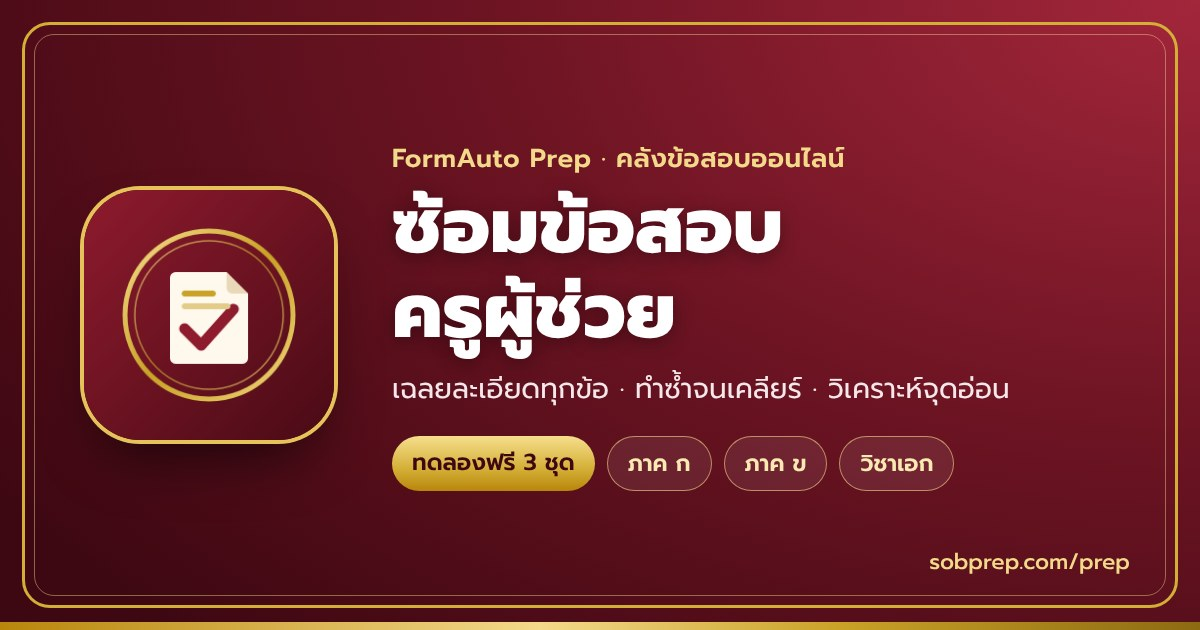
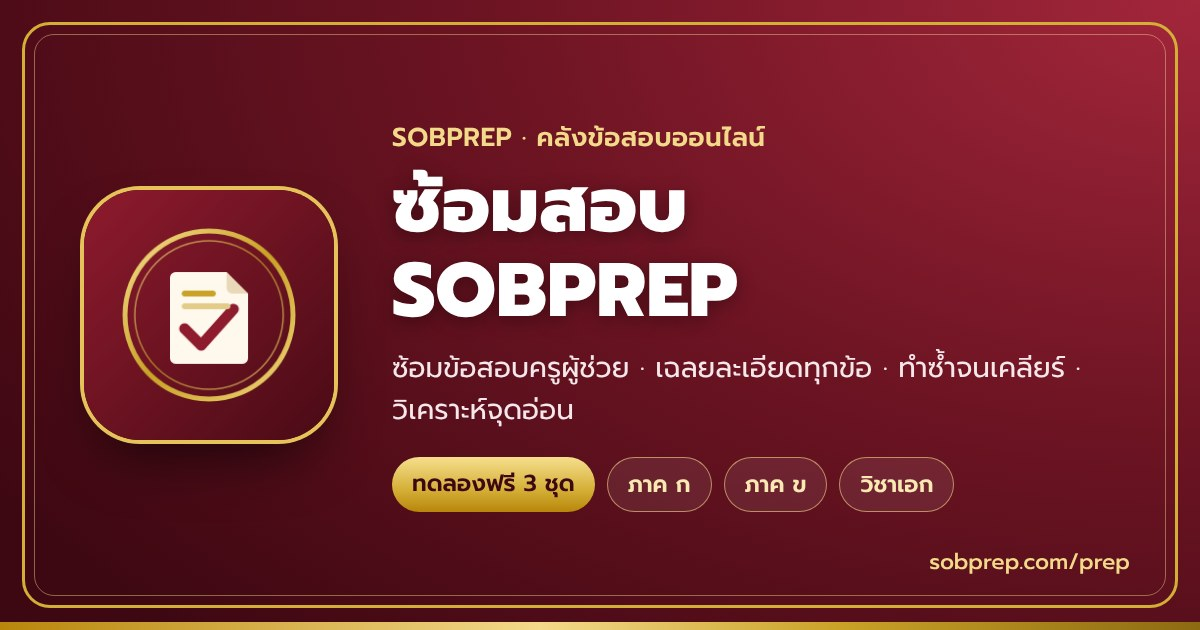
Rename the /prep brand to ซ้อมสอบ SOBPREP
Header brand, login hero, page titles, PWA name/short name, apple title,
og/site_name metadata and the share image now say SOBPREP instead of
ซ้อมครูผู้ช่วย / FormAuto Prep. The teacher FormAuto app is untouched.

Claude-Session: https://claude.ai/code/session_01SQo5dQgHYsfDk3paRTDxFz

Changed region(s): [[0.3083, 0.181, 0.8942, 0.8143]]

diff --git a/prep.html b/prep.html
@@ -7,7 +7,7 @@
     <link rel="apple-touch-icon" href="/prep-icons/apple-touch-icon.png" />
     <link rel="manifest" href="/prep-manifest.webmanifest" />
     <meta name="viewport" content="width=device-width, initial-scale=1.0, viewport-fit=cover" />
-    <title>ซ้อมข้อสอบครูผู้ช่วย ภาค ก ภาค ข วิชาเอก | FormAuto Prep</title>
+    <title>ซ้อมข้อสอบครูผู้ช่วย ภาค ก ภาค ข วิชาเอก | ซ้อมสอบ SOBPREP</title>
     <meta name="description" content="ซ้อมข้อสอบครูผู้ช่วยออนไลน์ เฉลยละเอียดทุกข้อ ทำซ้ำจนเคลียร์ พร้อมวิเคราะห์จุดแข็งจุดอ่อนรายหมวด ครบทั้งภาค ก ภาค ข และวิชาเอก ทดลองฟรี 3 ชุด" />
     <meta name="theme-color" content="#6E1423" />
     <link rel="canonical" href="https://sobprep.com/prep" />
@@ -22,8 +22,8 @@
     <meta property="og:image:type" content="image/jpeg" />
     <meta property="og:image:width" content="1200" />
     <meta property="og:image:height" content="630" />
-    <meta property="og:image:alt" content="ซ้อมข้อสอบครูผู้ช่วย ภาค ก ภาค ข วิชาเอก - FormAuto Prep" />
-    <meta property="og:site_name" content="FormAuto Prep" />
+    <meta property="og:image:alt" content="ซ้อมข้อสอบครูผู้ช่วย ภาค ก ภาค ข วิชาเอก - ซ้อมสอบ SOBPREP" />
+    <meta property="og:site_name" content="ซ้อมสอบ SOBPREP" />
     <meta property="og:locale" content="th_TH" />
 
     <!-- Twitter / X -->

diff --git a/src/prep/Privacy.tsx b/src/prep/Privacy.tsx
@@ -3,14 +3,14 @@ import { Logo } from "./icons";
 
 // Public page at /prep/privacy. Only states what the system really does today; update it when that changes.
 export default function Privacy() {
-  useEffect(() => { document.title = "ความเป็นส่วนตัวและข้อกำหนด | ซ้อมข้อสอบครูผู้ช่วย"; }, []);
+  useEffect(() => { document.title = "ความเป็นส่วนตัวและข้อกำหนด | ซ้อมสอบ SOBPREP"; }, []);
   return (
     <div className="pp-app pp-guide pp-legal">
       <header className="pp-top">
         <div className="pp-top-in">
           <a className="pp-brand" href="/prep">
             <Logo size={36} />
-            <span className="pp-brand-t">ซ้อมครูผู้ช่วย<small>ความเป็นส่วนตัวและข้อกำหนด</small></span>
+            <span className="pp-brand-t">ซ้อมสอบ<small>ความเป็นส่วนตัวและข้อกำหนด</small></span>
           </a>
           <span className="pp-spacer" />
           <a className="pp-btn pp-btn-gold" href="/prep">เปิดแอป</a>

diff --git a/src/prep/Guide.tsx b/src/prep/Guide.tsx
@@ -30,7 +30,7 @@ function Sec({ id, title, children }: { id: string; title: string; children: Rea
 export default function Guide() {
   const [prices, setPrices] = useState<Price[]>([]);
   useEffect(() => {
-    document.title = "คู่มือการใช้งาน | ซ้อมข้อสอบครูผู้ช่วย";
+    document.title = "คู่มือการใช้งาน | ซ้อมสอบ SOBPREP";
     rpc<Price[]>("prep_prices").then(setPrices).catch(() => { /* not signed in: use config */ });
   }, []);
   const n = (k: PackageKey, t: Term) => {
@@ -47,7 +47,7 @@ export default function Guide() {
         <div className="pp-top-in">
           <a className="pp-brand" href="/prep">
             <Logo size={36} />
-            <span className="pp-brand-t">ซ้อมครูผู้ช่วย<small>คู่มือการใช้งาน</small></span>
+            <span className="pp-brand-t">ซ้อมสอบ<small>คู่มือการใช้งาน</small></span>
           </a>
           <span className="pp-spacer" />
           <a className="pp-btn pp-btn-gold" href="/prep">เปิดแอป</a>

diff --git a/src/prep/Login.tsx b/src/prep/Login.tsx
@@ -45,8 +45,8 @@ export default function Login() {
       <div className="pp-login-wrap">
         <section className="pp-login-hero">
           <Logo size={76} />
-          <h1>ซ้อมข้อสอบครูผู้ช่วย</h1>
-          <p>ซ้อมไม่ซ้ำ เฉลยทุกข้อ ทำซ้ำจนเคลียร์ พร้อมวิเคราะห์จุดอ่อน</p>
+          <h1>ซ้อมสอบ SOBPREP</h1>
+          <p>ซ้อมข้อสอบครูผู้ช่วย ซ้อมไม่ซ้ำ เฉลยทุกข้อ ทำซ้ำจนเคลียร์ พร้อมวิเคราะห์จุดอ่อน</p>
           <ul className="pp-feats">
             <li><IconTarget /><div><b>ฟรี 3 ชุด</b><span>เลือกหมวดเอง ระบบจัดข้อสอบให้</span></div></li>
             <li><IconBook /><div><b>เฉลยละเอียดทุกข้อ</b><span>เห็นคำอธิบายและอ้างอิงกฎหมายทันทีหลังตอบ</span></div></li>

diff --git a/src/prep/PrepApp.tsx b/src/prep/PrepApp.tsx
@@ -54,7 +54,7 @@ function PrepShell() {
   const [error, setError] = useState("");
 
   useEffect(() => {
-    document.title = "ซ้อมข้อสอบครูผู้ช่วย | FormAuto";
+    document.title = "ซ้อมสอบ SOBPREP | ซ้อมข้อสอบครูผู้ช่วย";
     supabase.auth.getSession().then(({ data }) => setSession(data.session));
     const { data: sub } = supabase.auth.onAuthStateChange((_e, s) => setSession(s));
     return () => sub.subscription.unsubscribe();
@@ -139,7 +139,7 @@ function PrepShell() {
         <div className="pp-top-in">
           <button className="pp-brand" onClick={() => go("home")}>
             <Logo size={36} />
-            <span className="pp-brand-t">ซ้อมครูผู้ช่วย<small>FormAuto Prep</small></span>
+            <span className="pp-brand-t">ซ้อมสอบ<small>SOBPREP</small></span>
           </button>
           <nav className="pp-tabs">
             {tabs.map(t => (

diff --git a/src/prep/pwa.ts b/src/prep/pwa.ts
@@ -25,7 +25,7 @@ export function setupPwa() {
   setMeta("mobile-web-app-capable", "yes");
   setMeta("apple-mobile-web-app-capable", "yes");
   setMeta("apple-mobile-web-app-status-bar-style", "black-translucent");
-  setMeta("apple-mobile-web-app-title", "ซ้อมครูผู้ช่วย");
+  setMeta("apple-mobile-web-app-title", "ซ้อมสอบ");
   setMeta("viewport", "width=device-width, initial-scale=1.0, viewport-fit=cover");
 
   if ("serviceWorker" in navigator && import.meta.env.PROD) {

diff --git a/src/prep/prep.css b/src/prep/prep.css
@@ -1,4 +1,4 @@
-/* FormAuto Prep — burgundy with gold trim, matching the teacher app's crimson/gold identity. */
+/* SOBPREP — burgundy with gold trim, matching the teacher app's crimson/gold identity. */
 :root {
   --pp-ink: #2A1418;
   --pp-muted: #7A6468;

diff --git a/scripts/prep/gen_quant.py b/scripts/prep/gen_quant.py
@@ -1,4 +1,4 @@
-"""Generate template-based quantitative / logic questions for FormAuto Prep.
+"""Generate template-based quantitative / logic questions for SOBPREP.
 
 Answers are computed, so they are always correct. Output is the JSON array accepted by the
 admin import page (topic, level, stem, choices[4], answer, explanation).

diff --git a/docs/prep-launch.md b/docs/prep-launch.md
@@ -1,4 +1,4 @@
-# FormAuto Prep (/prep) — คู่มือตั้งค่าและเปิดระบบ
+# SOBPREP (/prep) — คู่มือตั้งค่าและเปิดระบบ
 
 ระบบซ้อมข้อสอบครูผู้ช่วยอยู่ที่ `/prep` แยก bundle / session / ตารางจากระบบครูเดิม
 (ชื่อเมนูใน Supabase/Vercel อาจต่างเล็กน้อยตามเวอร์ชัน ให้ดูคำที่ใกล้เคียง)
